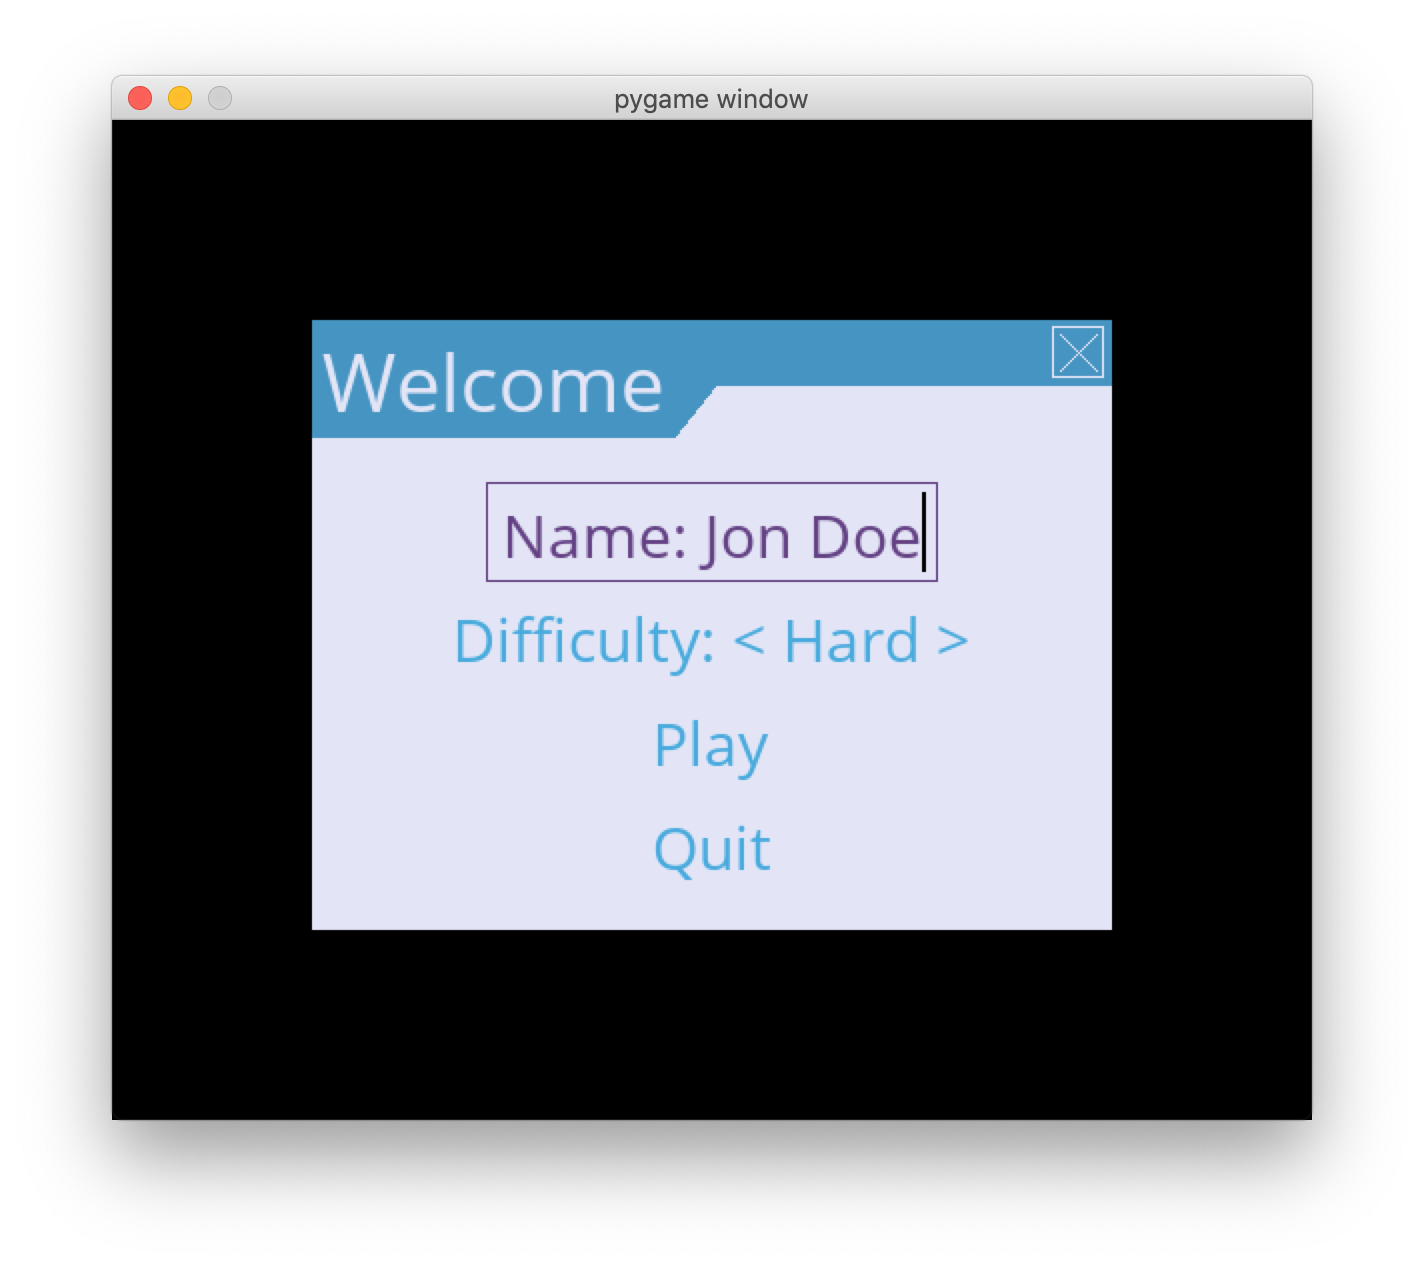
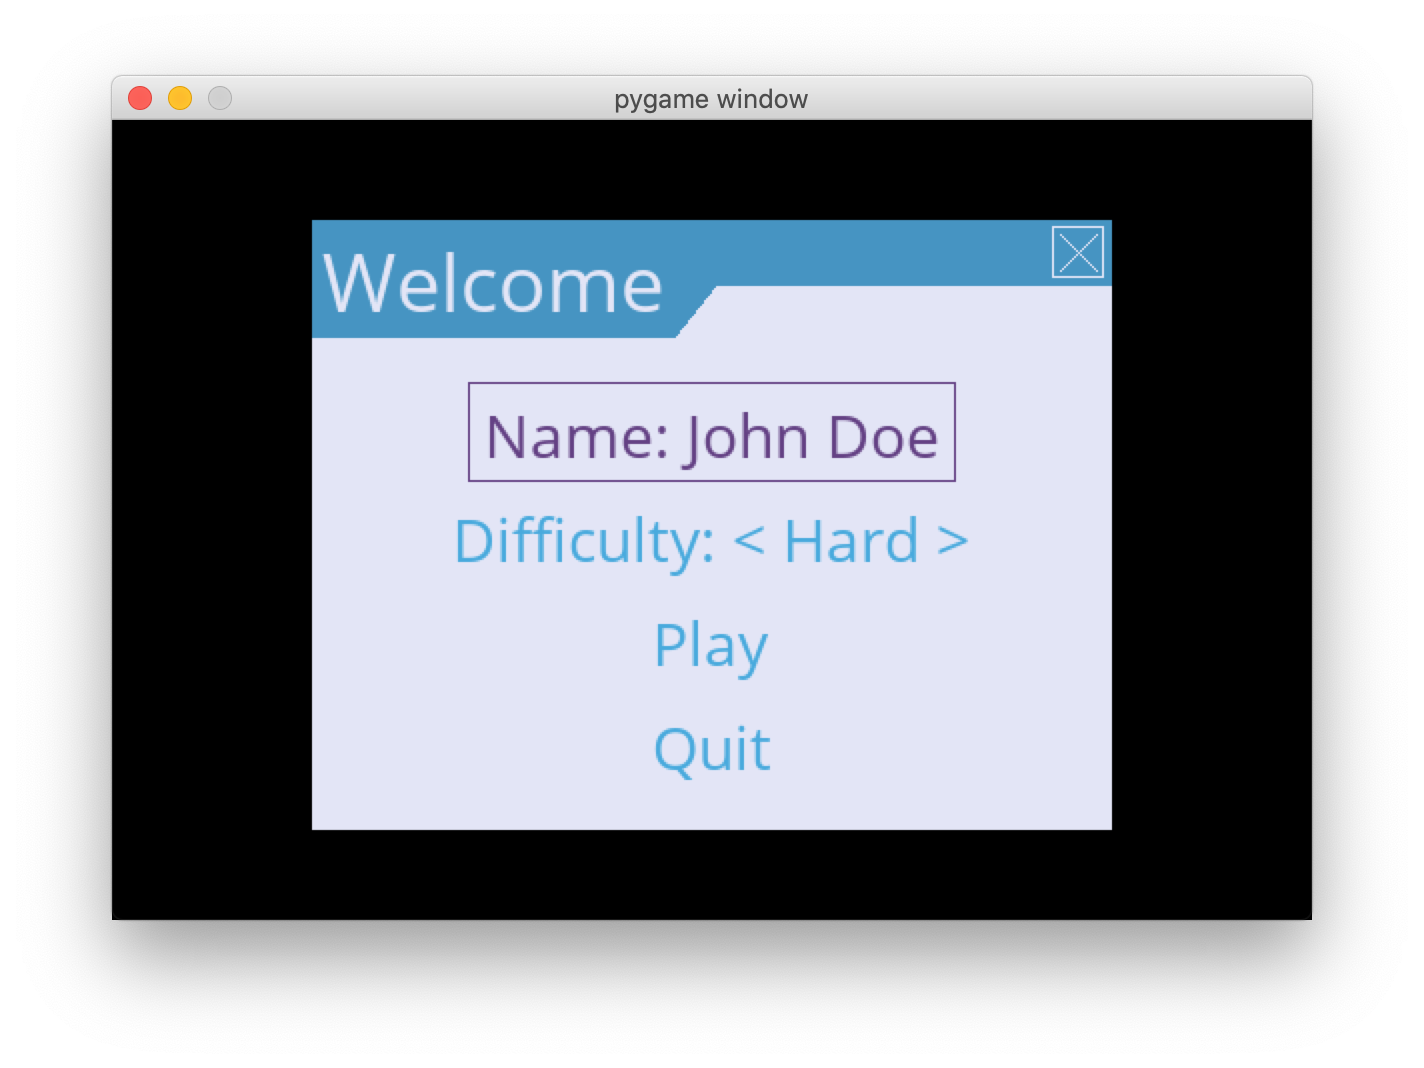
Fix typo error in first steps example

diff --git a/pygameMenu/examples/simple.py b/pygameMenu/examples/simple.py
@@ -36,7 +36,7 @@ import pygameMenu
 
 pygame.init()
 os.environ['SDL_VIDEO_CENTERED'] = '1'
-surface = pygame.display.set_mode((400, 300))
+surface = pygame.display.set_mode((600, 400))
 
 
 def set_difficulty(selected, value):
@@ -63,7 +63,7 @@ menu = pygameMenu.Menu(height=300,
                        theme=pygameMenu.themes.THEME_BLUE,
                        title='Welcome')
 
-menu.add_text_input('Name: ')
+menu.add_text_input('Name: ', default='John Doe')
 menu.add_selector('Difficulty: ', [('Hard', 1), ('Easy', 2)], onchange=set_difficulty)
 menu.add_button('Play', start_the_game)
 menu.add_button('Quit', pygameMenu.events.EXIT)

diff --git a/docs/index.rst b/docs/index.rst
@@ -32,7 +32,7 @@ Here is a simple example of how to create a menu with :py:mod:`pygame-menu`
 
     pygame.init()
     os.environ['SDL_VIDEO_CENTERED'] = '1'
-    surface = pygame.display.set_mode((400, 600))
+    surface = pygame.display.set_mode((600, 400))
 
 3. Make your menu
 
@@ -48,7 +48,7 @@ Here is a simple example of how to create a menu with :py:mod:`pygame-menu`
                            title="Welcome",
                            theme=pygameMenu.themes.THEME_BLUE)
 
-    menu.add_text_input('Name :')
+    menu.add_text_input('Name :', default='John Doe')
     menu.add_selector('Difficulty :', [('Hard', 1), ('Easy', 2)], onchange=set_difficulty)
     menu.add_button('Play', start_the_game)
     menu.add_button('Quit', pygameMenu.events.EXIT)
